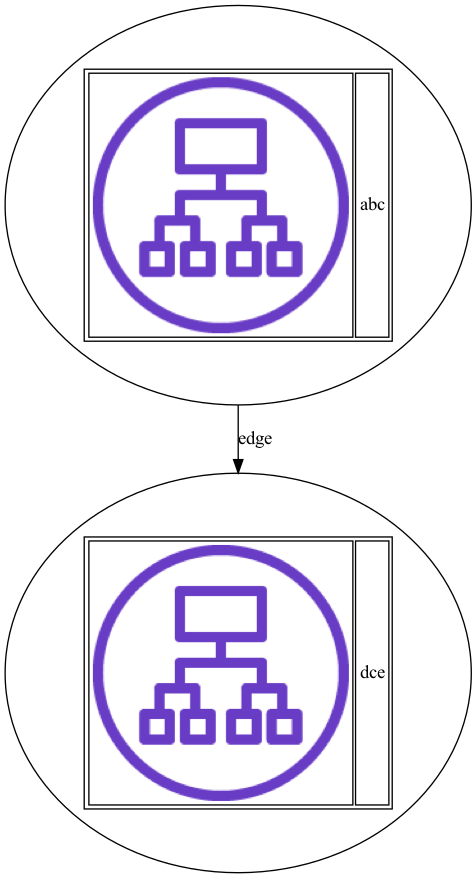
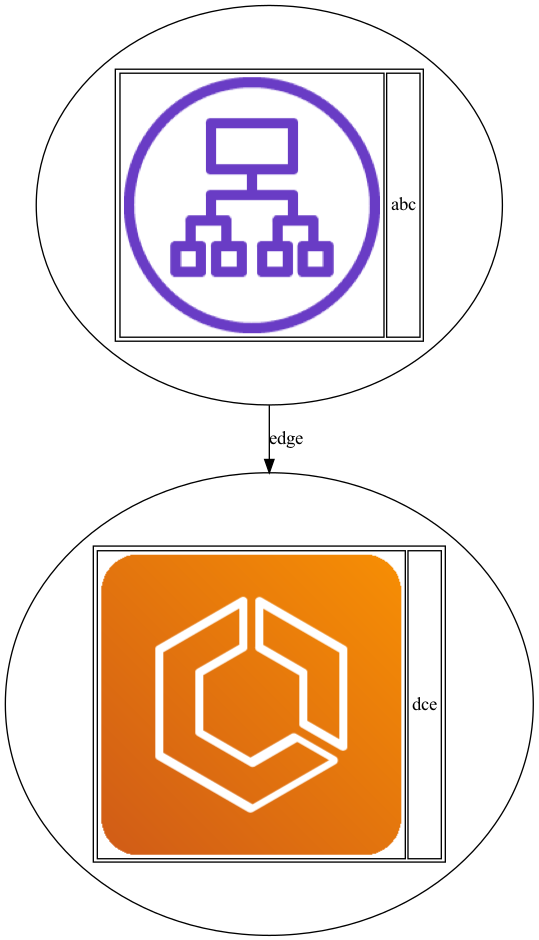
impl ecs

diff --git a/src/aws/ecs.rs b/src/aws/ecs.rs
@@ -1,16 +1,26 @@
+use crate::global::LARGE_ID;
 use crate::graph::Node;
 
 pub struct Ecs<'a> {
     label: &'a str,
     path: &'a str,
+    id: u32,
 }
 
 impl Ecs<'_> {
     pub fn new(label: &str) -> Ecs {
-        Ecs {
-            label,
-            path: "assets/aws/compute/elastic-container-service.png",
+        unsafe {
+            *LARGE_ID += 1;
+            new_with_id(label, *LARGE_ID as u32)
         }
+    }
+}
+
+fn new_with_id(label: &str, id: u32) -> Ecs {
+    Ecs {
+        label,
+        path: "assets/aws/compute/elastic-container-service.png",
+        id,
     }
 }
 
@@ -24,6 +34,6 @@ impl Node for Ecs<'_> {
     }
 
     fn id(&self) -> u32 {
-        todo!()
+        self.id
     }
 }

diff --git a/src/graph.rs b/src/graph.rs
@@ -29,7 +29,7 @@ impl<'a> dot::Labeller<'a, Nd<'a>, Ed<'a>> for Diagram<'_> {
         dot::Id::new(format!("N{}", n.0)).unwrap()
     }
     fn node_label<'b>(&'b self, n: &Nd<'b>) -> dot::LabelText<'b> {
-        let &(i, (label, image_path)) = n; // nodeのIDとlistの順番が同じ前提
+        let &(_, (label, image_path)) = n; // nodeのIDとlistの順番が同じ前提
                                            // dot::LabelText::LabelStr(self.nodes[i].image_path().into())
         let mut absolute_image_path = String::new();
         absolute_image_path.push_str(LARGE_TEXT.as_str());

diff --git a/examples/try_dot.rs b/examples/try_dot.rs
@@ -1,12 +1,12 @@
 use diagrams_rs::aws::alb::Alb;
 use diagrams_rs::aws::ecs::Ecs;
-use diagrams_rs::graph::{Diagram, Node};
+use diagrams_rs::graph::Diagram;
 
 fn main() {
     let mut diagram = Diagram::new();
 
     let alb1 = Alb::new("abc");
-    let alb2 = Alb::new("dce");
+    let alb2 = Ecs::new("dce");
 
     diagram.connect(&alb1, &alb2);
 
